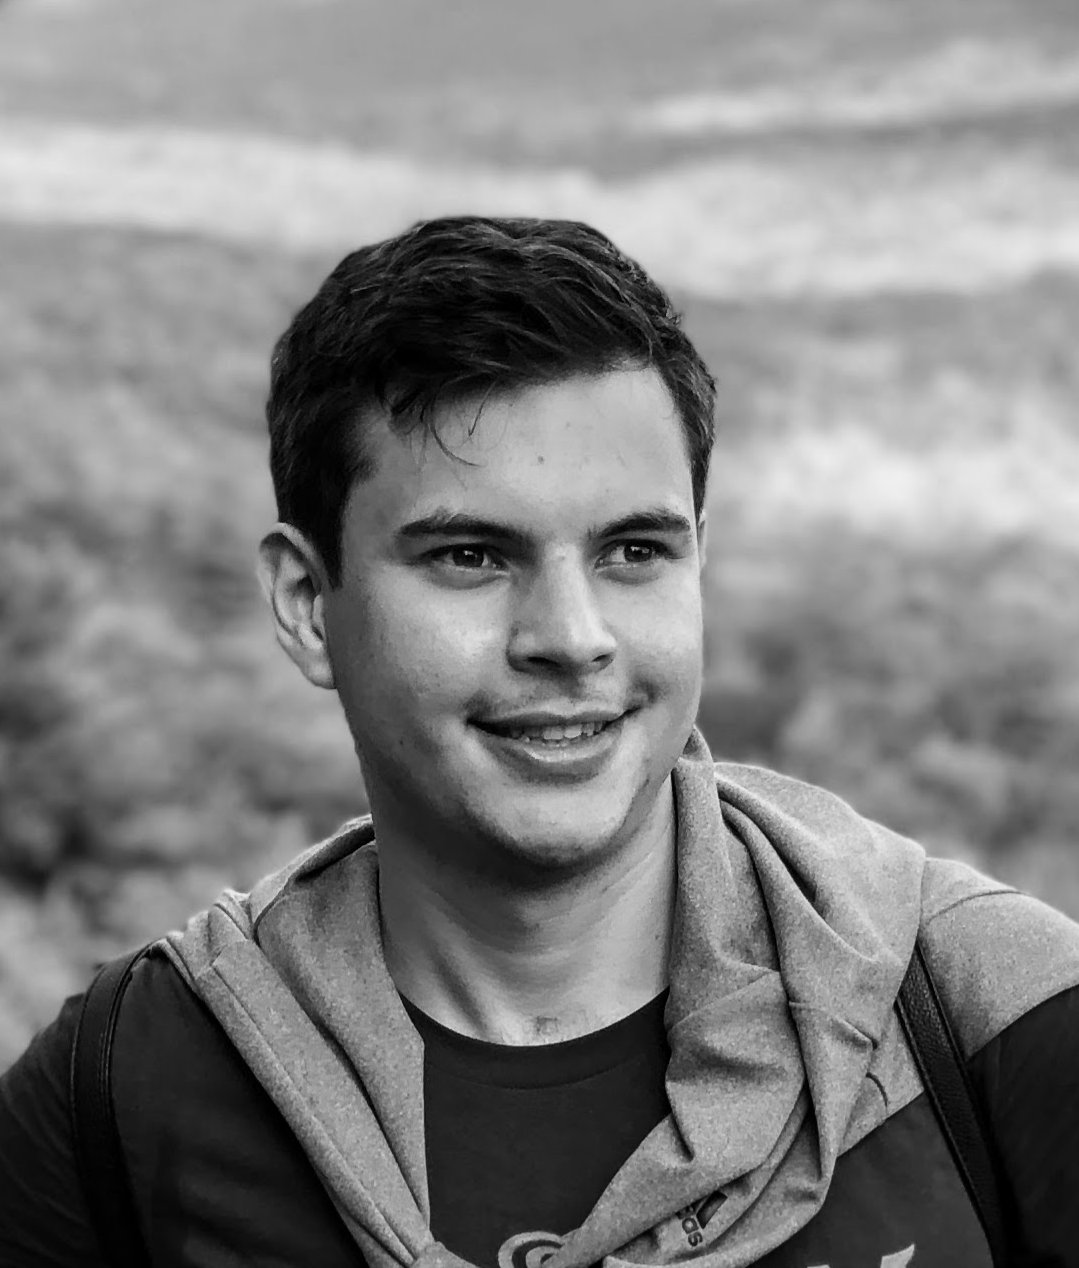
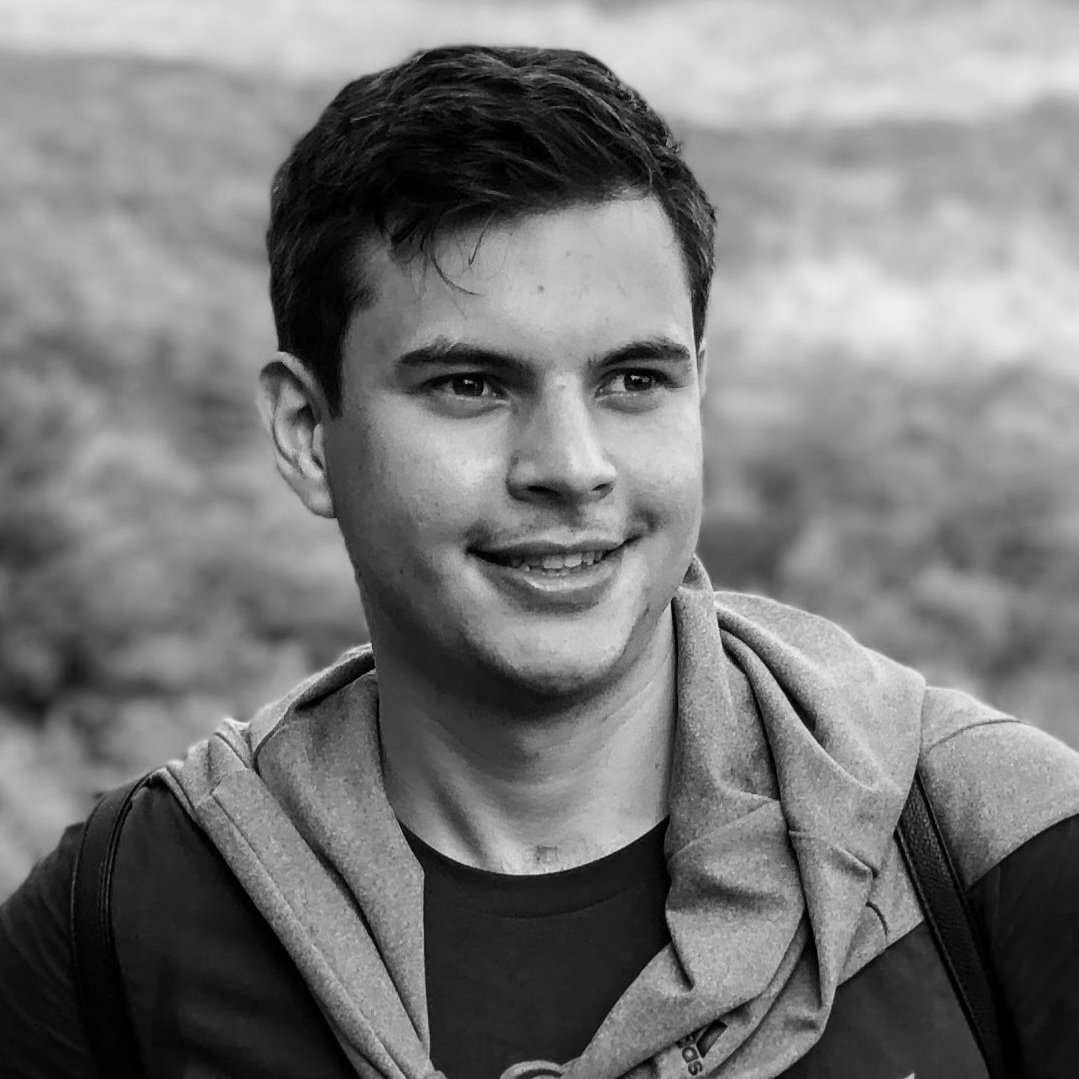
Fix scaling issues of images

diff --git a/_pages/neurips2023.md b/_pages/neurips2023.md
@@ -158,11 +158,11 @@ This workshop will not have formal proceedings, so we welcome the submission of 
 
 <table style="width:100%">
   <tr>
-    <td style="text-align:center"><img src="assets/img/org-khoa-doan.jpg" height="175" width="150"></td>
-    <td style="text-align:center"><img src="assets/img/org-anidruddha-saha.jpeg" height="175"  width="150"></td>
-    <td style="text-align:center"><img src="assets/img/org-anh-tran.jpg" height="175" width="150"></td>
-    <td style="text-align:center"><img src="assets/img/org-yingjie-lao.JPG" height="175" width="150"></td>
-    <td style="text-align:center"><img src="assets/img/org-kok-seng-wong.png" height="175" width="150"></td>
+    <td style="text-align:center"><img src="assets/img/org-khoa-doan-square.jpg" height="150" width="150"></td>
+    <td style="text-align:center"><img src="assets/img/org-anidruddha-saha-square.jpeg" height="150"  width="150"></td>
+    <td style="text-align:center"><img src="assets/img/org-anh-tran-square.jpg" height="150" width="150"></td>
+    <td style="text-align:center"><img src="assets/img/org-yingjie-lao-square.JPG" height="150" width="150"></td>
+    <td style="text-align:center"><img src="assets/img/org-kok-seng-wong-square.png" height="150" width="150"></td>
   </tr>
   <tr>
     <td style="text-align:center"><a href="localhost:4000">Khoa D Doan</a> <br>VinUniversity, Vietnam</td>
@@ -172,11 +172,11 @@ This workshop will not have formal proceedings, so we welcome the submission of 
     <td style="text-align:center"><a href="localhost:4000">Kok-seng Wong</a> <br>VinUniversity, Vietnam</td>
   </tr>
   <tr>
-    <td style="text-align:center"><img src="assets/img/org-ang-li.jpeg" height="175" width="150"></td>
-    <td style="text-align:center"><img src="assets/img/org-haripriya-harikumar.jpg" height="175"  width="150"></td>
-    <td style="text-align:center"><img src="assets/img/org-eugene-bagdasaryan.jpeg" height="175" width="150"></td>
-    <td style="text-align:center"><img src="assets/img/org-micah-goldblum.jpg" height="175" width="150"></td>
-    <td style="text-align:center"><img src="assets/img/org-tom-goldstein.jpg" height="175" width="150"></td>
+    <td style="text-align:center"><img src="assets/img/org-ang-li-square.jpeg" height="150" width="150"></td>
+    <td style="text-align:center"><img src="assets/img/org-haripriya-harikumar-square.jpg" height="150"  width="150"></td>
+    <td style="text-align:center"><img src="assets/img/org-eugene-bagdasaryan-square.jpeg" height="150" width="150"></td>
+    <td style="text-align:center"><img src="assets/img/org-micah-goldblum-square.jpg" height="150" width="150"></td>
+    <td style="text-align:center"><img src="assets/img/org-tom-goldstein-square.jpg" height="150" width="150"></td>
   </tr>
   <tr>
     <td style="text-align:center"><a href="localhost:4000">Ang Li</a> <br>Baidu Apollo, USA</td>
@@ -189,21 +189,21 @@ This workshop will not have formal proceedings, so we welcome the submission of 
 
 
 ### Organizers affiliations
-<td style="text-align:center"><img src="assets/img/inst-vinuni-cecs.png" height="100"></td>
+<td style="text-align:center"><img src="assets/img/inst-vinuni-cecs.png" height="75"></td>
 <br>
 
-<td style="text-align:center"><img src="assets/img/inst-umd-cs.png" height="100"></td>
+<td style="text-align:center"><img src="assets/img/inst-umd-cs.png" height="75"></td>
 <br>
 
-<td style="text-align:center"><img src="assets/img/inst-vinai.png" height="100"></td>
+<td style="text-align:center"><img src="assets/img/inst-vinai.png" height="75"></td>
 <br>
 
 
-<td style="text-align:center"><img src="assets/img/inst-clemson.png" height="100"></td>
+<td style="text-align:center"><img src="assets/img/inst-clemson.png" height="75"></td>
 <br>
 
-<td style="text-align:center"><img src="assets/img/inst-deakin.png" height="100"></td>
+<td style="text-align:center"><img src="assets/img/inst-deakin.png" height="75"></td>
 <br>
 
-<td style="text-align:center"><img src="assets/img/inst-cornell-tech.png" height="100"></td>
+<td style="text-align:center"><img src="assets/img/inst-cornell-tech.png" height="75"></td>
 
